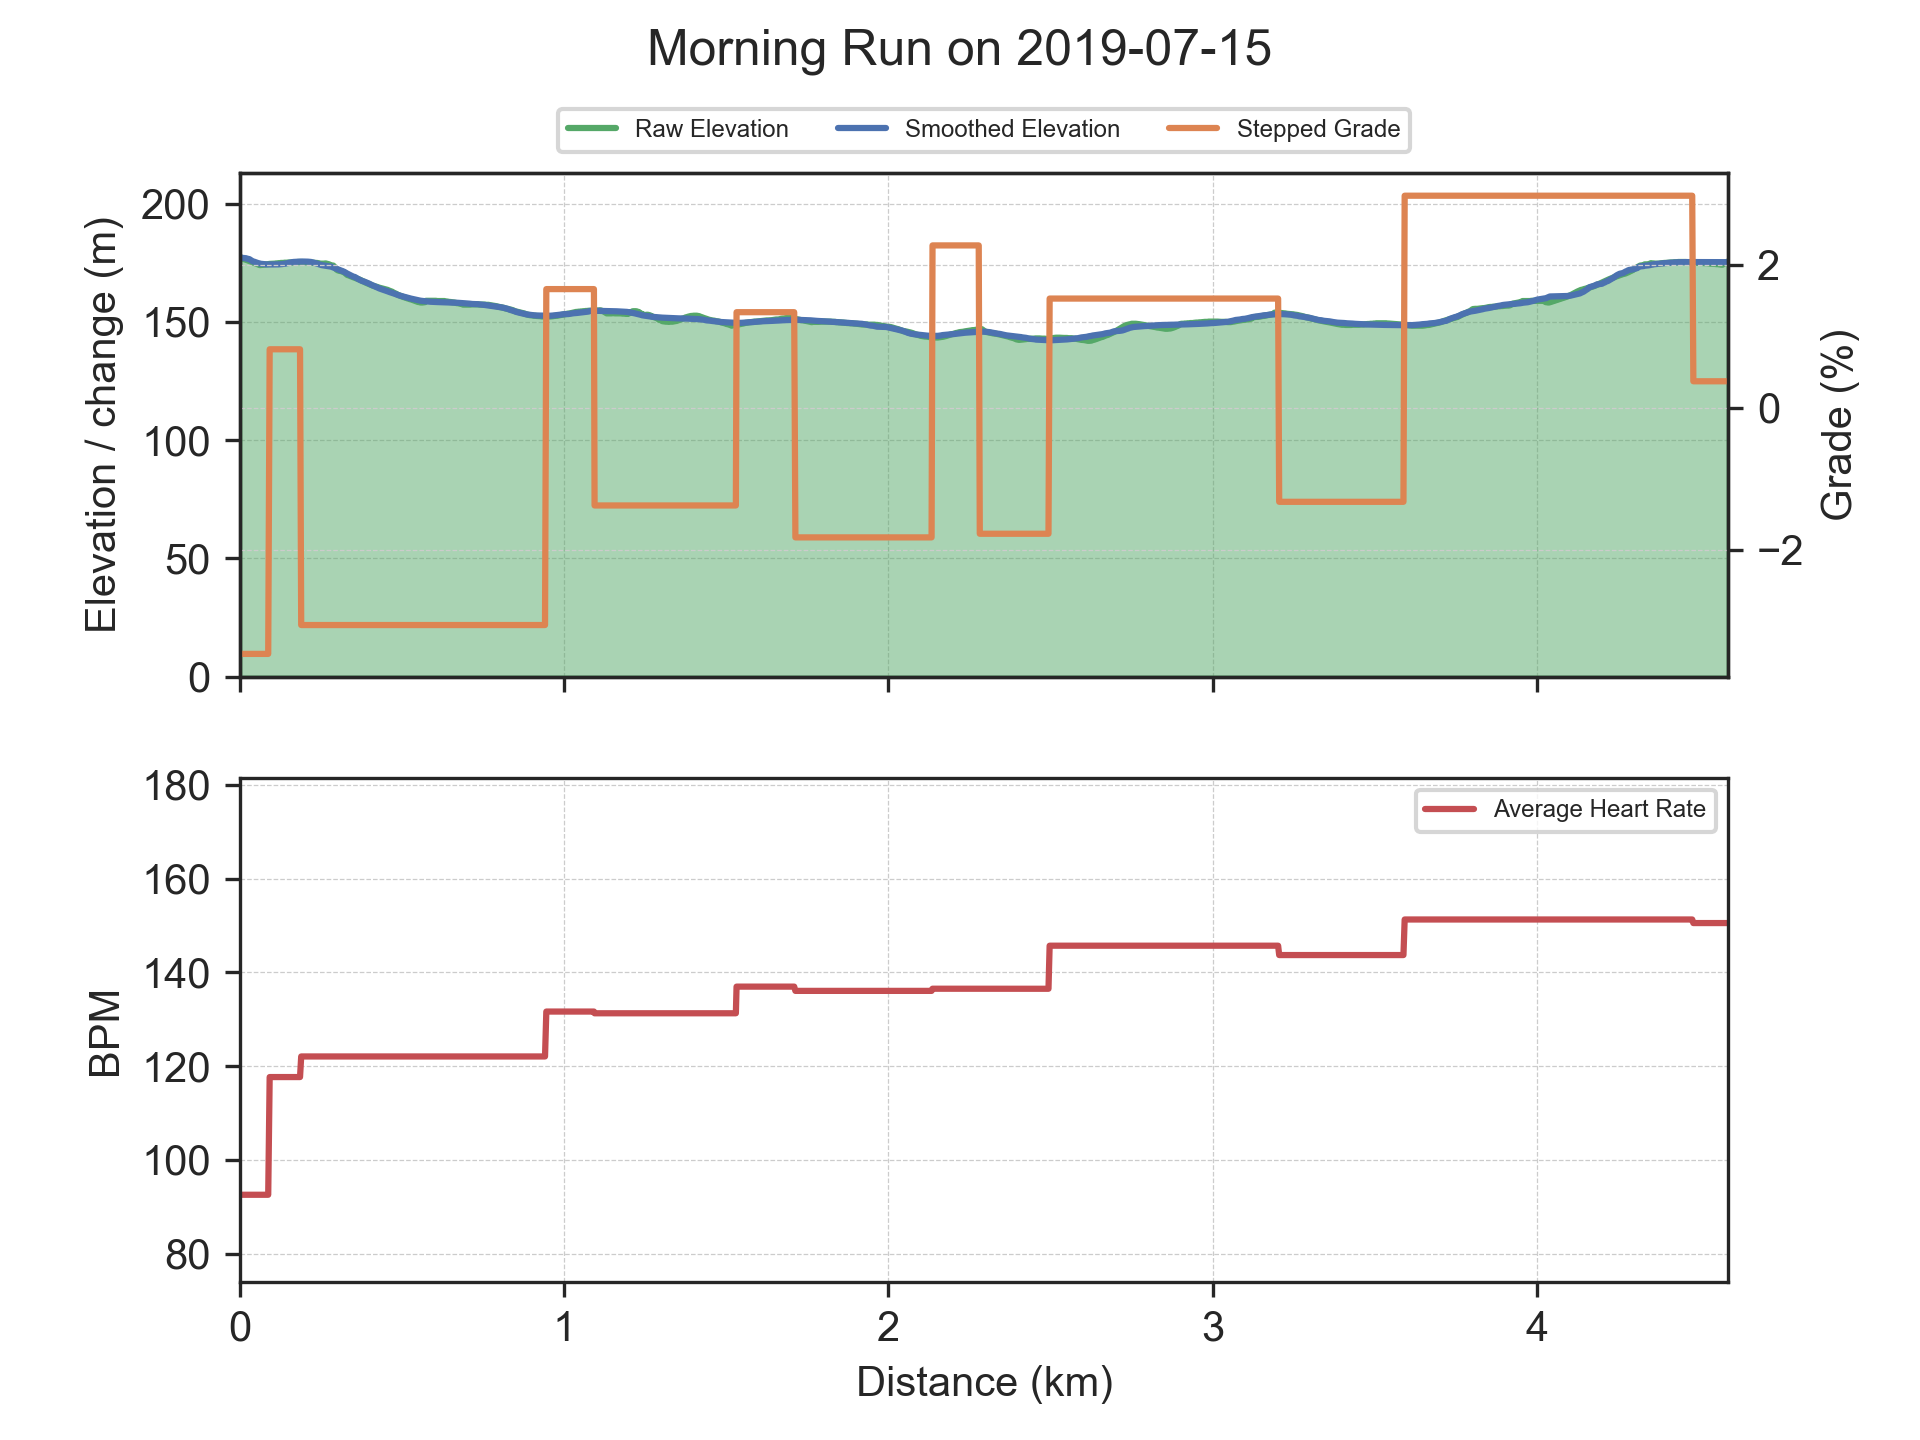
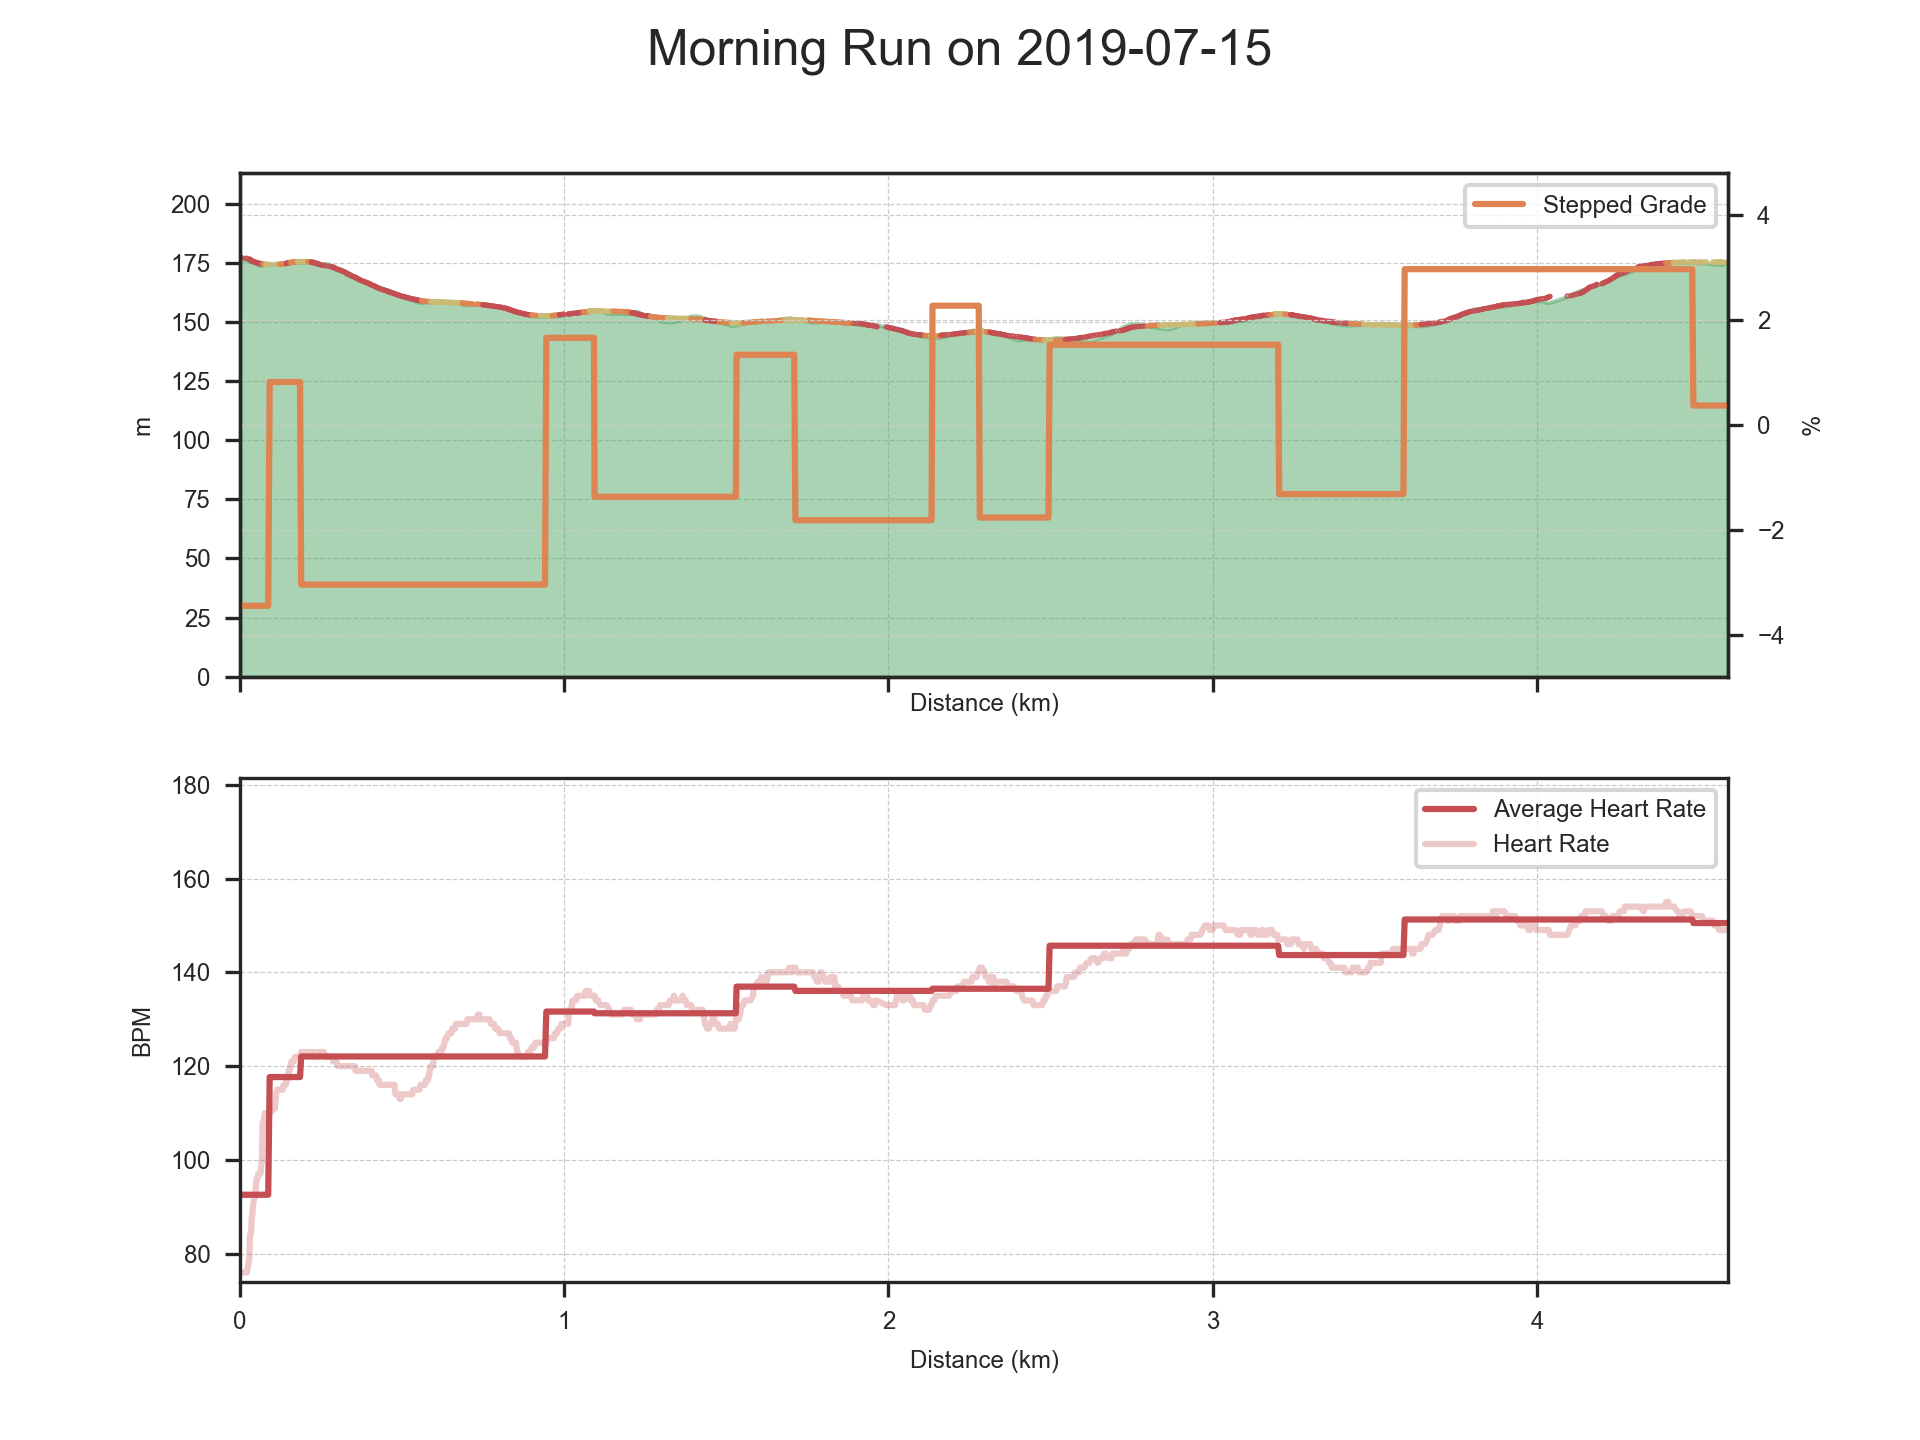
Custom color map to plot smoothed grade over elevation plot and plots for cadence and speed
- Custom color map to plot smoothed grade over elevation plot
- Options for plotting cadence and speed
- Other aesthetics
- Some refactoring

diff --git a/scripts/grade.py b/scripts/grade.py
@@ -11,6 +11,8 @@ import seaborn as sns
 
 from argparse import ArgumentParser
 from haversine import haversine
+from matplotlib import colors
+from matplotlib import cm
 
 _GPX_HR_TAG = "hr"
 _GPX_CADENCE_TAG = "cad"
@@ -20,6 +22,7 @@ _PLOT_DPI = 300
 # default cut-off for the filter
 _FILTER_DEFAULT_CUT_OFF = 0.03
 _FILTER_ORDER = 5
+_FONT_SIZE = "xx-small"
 
 if __name__ == "__main__":
     # TODO: main()
@@ -104,6 +107,7 @@ if __name__ == "__main__":
         # off by one error
         grades.extend(np.ones(end - start)*grade)
         heart_rate_averages.extend(np.ones(end - start)*np.average(heart_rates[start:end]))
+        # TODO: consider an alternative metric such as a percentile
         cadence_averages.extend(np.ones(end - start)*np.average(cadences[start:end]))
         # in km/h
         average_speed = (x[end] - x[start])/float((times[end] - times[start]).total_seconds()/3600)
@@ -115,81 +119,106 @@ if __name__ == "__main__":
     (blue, orange, green, red, purple, brown, magenta, grey, yellow, cyan) = sns.color_palette("deep")
 
     rows = None
+    axes = None
     # TODO: Other cadence options
     if args.plot_speed and (args.plot_heart_rate and heart_rates) and (args.plot_cadence and cadences):
         rows = 4
-        (f, (ax1, ax4, ax5, ax3)) = plt.subplots(rows, 1, sharex=True)
+        (f, axes) = plt.subplots(rows, 1, sharex=True)
+        (ax_elevation, ax_speed, ax_cadence, ax_hr) = axes
     elif (args.plot_heart_rate and heart_rates) and not args.plot_speed:
         rows = 2
-        (f, (ax1, ax3)) = plt.subplots(rows, 1, sharex=True)
+        (f, axes) = plt.subplots(rows, 1, sharex=True)
+        (ax_elevation, ax_hr) = axes
     elif args.plot_speed and not args.plot_heart_rate:
         rows = 2
-        (f, (ax1, ax4)) = plt.subplots(rows, 1, sharex=True)
+        (f, axes) = plt.subplots(rows, 1, sharex=True)
+        (ax_elevation, ax_speed) = axes
     else:
         rows = 1
-        (f, ax1) = plt.subplots(rows, 1, sharex=True)
+        (f, axes) = plt.subplots(rows, 1, sharex=True)
+        ax_elevation = axes
 
-    ax1.plot(x, elevations, color=green, label="Raw Elevation", fillstyle="bottom")
-    ax1.fill_between(x, elevations, 0, color=green, alpha=0.5)
-    ax1.plot(x, elevations_filtered, color=blue, label="Smoothed Elevation")
-    ax1.set_xlim(min(x), max(x))
-    ax1.set_xlabel("Distance (km)")
-    ax1.set_ylim(0, max(elevations)*(1 + _PLOT_PADDING))
-    ax1.set_ylabel("Elevation / change (m)")
-    ax1.grid()
+    #ax_elevation.plot(x, elevations, color=green, label="Raw Elevation", fillstyle="bottom")
+    # TODO: gradients
+    ax_elevation.fill_between(x, elevations, 0, color=green, alpha=0.5)
+    #ax_elevation.plot(x, elevations_filtered, color=blue, label="Smoothed Elevation")
+    #ax_elevation.scatter(x[:-1], elevations_filtered[:-1], c=np.abs(gradient), s=1, edgecolor=None, label="Smoothed Elevation")
+    gg = np.abs(gradient)
+    # first stretch the data to be in the range [0,1]
+    gg = gg/gg.max()
+    # then, basically, if the grade is +/-30%, use that for the maximum for the colour map
+    s = 3/10
+    gg = np.clip(gg, 0, s)/s
+    cmap = colors.ListedColormap(sns.color_palette([yellow, orange, red]).as_hex())
+    sc = ax_elevation.scatter(x[:-1], elevations_filtered[:-1], c=cmap(gg), s=0.1, edgecolor=None)
+    ax_elevation.set_xlim(min(x), max(x))
+    # TODO: refactor x-small (use rc or constant)
+    ax_elevation.set_xlabel("Distance (km)", fontsize=_FONT_SIZE)
+    ax_elevation.set_ylim(0, max(elevations)*(1 + _PLOT_PADDING))
+    ax_elevation.set_ylabel("m", fontsize=_FONT_SIZE)
+    ax_elevation.tick_params(labelsize=_FONT_SIZE)
+    ax_elevation.grid()
 
-    ax2 = ax1.twinx()
-    ax2.set_xlim(min(x), max(x))
-    ax2.plot(x[:-1], np.array(grades), color=orange, label="Stepped Grade")
-    ax2.set_ylabel("Grade (%)")
-    ax2.grid()
+    ax_grade = ax_elevation.twinx()
+    ax_grade.set_xlim(min(x), max(x))
+    grades_max = np.ceil(max([abs(g) for g in grades]))
+    # symmetric
+    ax_grade.set_ylim(-grades_max*(1 + _PLOT_PADDING), grades_max*(1 + _PLOT_PADDING))
+    ax_grade.plot(x[:-1], np.array(grades), color=orange, label="Stepped Grade")
+    ax_grade.set_ylabel("%", fontsize=_FONT_SIZE)
+    ax_grade.tick_params(labelsize=_FONT_SIZE)
+    ax_grade.grid()
 
     if args.plot_heart_rate and not heart_rates:
         print("WARNING: Heart rate plot requested but no heart rate data could be found")
 
     if args.plot_heart_rate and heart_rates:
-        ax3.set_xlim(min(x), max(x))
-        ax3.set_ylim(min(heart_rate_averages)*(1 - _PLOT_PADDING), max(heart_rate_averages)*(1 + _PLOT_PADDING))
-        ax3.plot(x[:-1], np.array(heart_rate_averages), color=red, label="Average Heart Rate")
-        ax3.plot(x[:-1], heart_rates[:-2], color=red, alpha=0.3, label="Heart Rate")
-        ax3.set_xlabel("Distance (km)")
-        ax3.set_ylabel("BPM")
-        ax3.legend(loc="upper right", fontsize="xx-small")
-        ax3.grid()
+        ax_hr.set_xlim(min(x), max(x))
+        ax_hr.set_ylim(min(heart_rate_averages)*(1 - _PLOT_PADDING), max(heart_rate_averages)*(1 + _PLOT_PADDING))
+        ax_hr.plot(x[:-1], np.array(heart_rate_averages), color=red, label="Average Heart Rate")
+        ax_hr.plot(x[:-1], heart_rates[:-2], color=red, alpha=0.3, label="Heart Rate")
+        ax_hr.set_xlabel("Distance (km)", fontsize=_FONT_SIZE)
+        ax_hr.set_ylabel("BPM", fontsize=_FONT_SIZE)
+        ax_hr.legend(loc="upper right", fontsize=_FONT_SIZE)
+        ax_hr.tick_params(labelsize=_FONT_SIZE)
+        ax_hr.grid()
 
     if args.plot_speed:
-        ax4.set_xlim(min(x), max(x))
-        ax4.set_ylim(min(speed_averages)*(1 - _PLOT_PADDING), max(speed_averages)*(1 + _PLOT_PADDING))
-        ax4.plot(x[:-1], np.array(speed_averages), color=cyan, label="Average Speed")
-        ax4.plot(x[:-1], speed[:-1], color=cyan, alpha=0.3, label="Speed")
-        ax4.set_xlabel("Distance (km)")
-        ax4.set_ylabel("km/h")
-        ax4.set_ylim(0, max(speed)*(1 + _PLOT_PADDING))
-        ax4.legend(loc="upper right", fontsize="xx-small")
-        ax4.grid()
+        ax_speed.set_xlim(min(x), max(x))
+        ax_speed.set_ylim(min(speed_averages)*(1 - _PLOT_PADDING), max(speed_averages)*(1 + _PLOT_PADDING))
+        ax_speed.plot(x[:-1], np.array(speed_averages), color=cyan, label="Average Speed")
+        ax_speed.plot(x[:-1], speed[:-1], color=cyan, alpha=0.3, label="Speed")
+        ax_speed.set_xlabel("Distance (km)", fontsize=_FONT_SIZE)
+        ax_speed.set_ylabel("km/h", fontsize=_FONT_SIZE)
+        ax_speed.set_ylim(0, max(speed)*(1 + _PLOT_PADDING))
+        ax_speed.legend(loc="upper right", fontsize=_FONT_SIZE)
+        ax_speed.tick_params(labelsize=_FONT_SIZE)
+        ax_speed.grid()
 
     if args.plot_cadence:
-        ax5.set_xlim(min(x), max(x))
-        ax5.set_ylim(min(cadence_averages)*(1 - _PLOT_PADDING), max(cadence_averages)*(1 + _PLOT_PADDING))
-        ax5.plot(x[:-1], np.array(cadence_averages), color=purple, label="Average Cadence")
-        ax5.plot(x[:-1], cadences[:-2], color=purple, alpha=0.3, label="Cadence")
-        ax5.set_xlabel("Distance (km)")
-        ax5.set_ylabel("RPM")
-        ax5.set_ylim(0, max(cadences)*(1 + _PLOT_PADDING))
-        ax5.legend(loc="upper right", fontsize="xx-small")
-        ax5.grid()
+        ax_cadence.set_xlim(min(x), max(x))
+        ax_cadence.set_ylim(min(cadence_averages)*(1 - _PLOT_PADDING), max(cadence_averages)*(1 + _PLOT_PADDING))
+        ax_cadence.plot(x[:-1], np.array(cadence_averages), color=purple, label="Average Cadence")
+        ax_cadence.plot(x[:-1], cadences[:-2], color=purple, alpha=0.3, label="Cadence")
+        ax_cadence.set_xlabel("Distance (km)", fontsize=_FONT_SIZE)
+        ax_cadence.set_ylabel("RPM", fontsize=_FONT_SIZE)
+        ax_cadence.set_ylim(0, max(cadences)*(1 + _PLOT_PADDING))
+        ax_cadence.legend(loc="upper right", fontsize=_FONT_SIZE)
+        ax_cadence.tick_params(labelsize=_FONT_SIZE)
+        ax_cadence.grid()
 
-    h1, l1 = ax1.get_legend_handles_labels()
-    h2, l2 = ax2.get_legend_handles_labels()
+    h1, l1 = ax_elevation.get_legend_handles_labels()
+    h2, l2 = ax_grade.get_legend_handles_labels()
     # https://stackoverflow.com/questions/4700614/how-to-put-the-legend-out-of-the-plot
-    # FIX ME: + rows*0.05
-    ax1.legend(h1 + h2, l1 + l2, loc="upper center", bbox_to_anchor=(0.5, 1.2), ncol=3 , fontsize="xx-small")
+    l = ax_grade.legend(h2, l2, loc="upper right", fontsize=_FONT_SIZE)
 
     # TODO: speed, cadence, gradient of gradient on elevation chart, just gradient
     # TODO: scatter plot: 
     # https://stackoverflow.com/questions/8453726/is-there-a-matplotlib-counterpart-of-matlab-stem3
     # fig = pyplot.figure(); ax = fig.add_subplot(111, projection='3d'); ax.scatter3D(heart_rates[0:-2:10], speed[0:-1:10], 100*ef[0::10])
     # ax.set_xlabel('hr'), ax.set_ylabel('s'), ax.set_zlabel('e')
+
+    f.align_ylabels(axes)
 
     if track.name:
         # TODO: time
